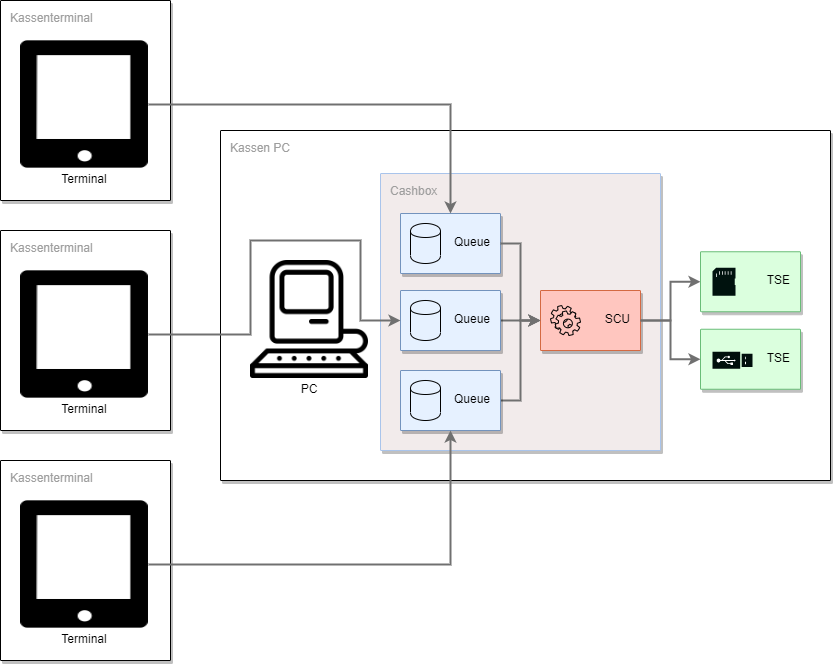
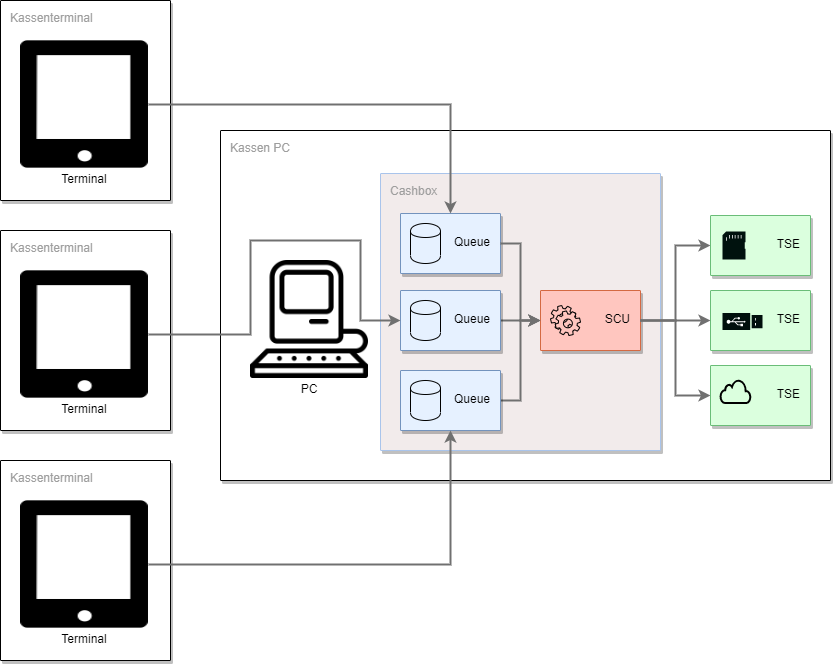
Update scenarios

Changed region(s): [[0.7803, 0.3012, 0.9988, 0.6627]]

diff --git a/for-posdealers/03-sales/rollout-scenarios.md b/for-posdealers/03-sales/rollout-scenarios.md
@@ -2,97 +2,50 @@
 Um die fiskaltrust.Middleware in Verbindung mit Kassen und TSEs zu verwenden kommen unterschiedliche Szenarien in Frage. Bei jedem dieser Szenarien handelt es sich immer um einen Standort. Diese werden weiter unten erläutert, es gibt allerdings einige Grundvoraussetzungen welche auf jeden Fall gegeben sein müssen, unabhängig vom Szenario.
 
 - Pro POS-System (Standort) muss mindestens eine [SCU](https://github.com/fiskaltrust/productdescription-de-doc/blob/master/product-service-description/compliance-as-a-service/features/SCU-Abstraktion.md) inkl. TSE zugeordnet sein. Die TSE kann entweder eine Hardware TSE vor Ort sein, oder eine zertifizierte Cloud TSE.
-- Jede Kasse welche dem Finanzamt gemeldet werden muss, muss eine Queue zugeordnet sein.
+- Jeder Kasse welche dem Finanzamt gemeldet werden muss, muss eine fiskaltrust.Queue zugeordnet sein.
+- Alle Komponenten müssen sich am gleichen Standort befinden, im sogenannten "operational environment" (sichere Einsatzumgebung).
+- Jede Kasse kann nur eine TSE nutzen.
+
+Es ist zudem jederzeit möglich weitere Terminals mit einer Kasse zu verbinden oder zusätzliche TSEs zu verwenden.
 
 #### TSE in der Cloud
-Mit einer Cloud TSE können diverse Komponenten der TSE in einem Rechenzentrum betrieben werden. Ist die TSE nicht mehr erreichbar, wechselt die fiskaltrust.Middleware in den Ausfallsmodus. Bei der Nutzung von Cloud TSEs möchten wir auf die [Fair-Use-Policy]() hinweisen.
+Mit einer Cloud TSE können diverse Komponenten der TSE in einem Rechenzentrum betrieben werden. Ist die TSE nicht mehr erreichbar, wechselt die fiskaltrust.Middleware in den [Ausfallsmodus](). Bei der Nutzung von Cloud TSEs möchten wir auf die [Fair-Use-Policy]() hinweisen.
 
 #### Hardware-TSE
-Wird eine Hardware-TSE genutzt, so muss pro Kasse nur eine angeschlossen werden. Entweder per SD-Karte oder am USB-Anschluss.
+Pro Kasse kann nur eine Hardware-TSE angeschlossen werden. Entweder per SD-Karte oder am USB-Anschluss.
 
-## Entscheidungshilfe
-Dieser Leitfaden stellt eine Entscheidungshilfe dar, welches Szenario für welche Gegebenheiten empfohlen wird. Die Fragen werden nachfolgend genauer beschrieben.
-
-#### TSE-Export pro Kasse?
-Ja bedeutet, dass die Exporte der TSE immer ausschließlich direkt an der Kasse erfolgen. Das Exportieren und auch das Löschen der Daten auf der TSE ist hier technisch am einfachsten. Pro Kasse wird also eine TSE verwendet, das ist die maximale Anzahl.
-
-#### Terminals oder Kassen?
-"Terminals" bedeutet, die Eingabegeräte sind Tablets oder ähnliches, das heißt es ist gar nicht möglich hier eine Hardware-TSE anzuschließen bzw. die fiskaltrust.Middleware am Gerät selbst zu installieren. Bei "Kassen" handelt es sich um Geräte an denen die fiskaltrust.Middleware installiert werden kann.
-
-#### Gibt es eine Hauptkasse?
-Ja bedeutet, dass eine der Kassen als Hauptkasse genutzt wird. Die Hauptkasse muss demnach eingeschalten sein damit die anderen Kassen auf die TSE zugreifen können. Bei Nein wird die fiskaltrust.Middleware welche mit der TSE kommuniziert auf einem lokalem PC (Server) installiert.
-
-#### Hardware vor Ort?
-Nein bedeutet, es nicht möglich Hardware (mit Ausnahme der Eingabeterminals) vor Ort zu betreiben.
-
-#### Terminals meldepflichtig?
-Ja bedeutet, dass die Terminals dem Finanzamt gemeldet werden. Ist das der Fall, benötigt jedes Terminal eine eigene fiskaltrust.Queue. 
-
-#### Internetverbindung vorhanden?
-Ja beduetet, dass eine Internetverbindung vor Ort vorhanden ist.
-
-![scenario-decisions](media/scenario-decisions.png)
-
-#### Links zu den Szenarien
-
-- [Hardware-TSE pro Kasse](#Hardware-TSE-pro-Kasse)
-- [Cloud-TSE mit Hauptkasse](#Cloud-TSE-mit-Hauptkasse)
-- [Hardware-TSE mit Hauptkasse](#Hardware-TSE-mit-Hauptkasse)
-- [Cloud-TSE mit Server](#Cloud-TSE-mit-Server)
-- [Hardware-TSE mit Server](#Hardware-TSE-mit-Server)
-- [Cloud-TSE mit Terminals](#Cloud-TSE-mit-Terminals)
-- [Hardware-TSE mit Terminals](#Hardware-TSE-mit-Terminals)
-- [Cloud-TSE mit Single-Queue](#Cloud-TSE-mit-Single-Queue)
-- [Hardware-TSE mit Single-Queue](#Hardware-TSE-mit-Single-Queue)
-- [Rechenzentrum als operational environment](#Rechenzentrum-als-operational-environment)
-
-## Hardware-TSE pro Kasse
-Das ist das technisch einfachste Szenario, benötigt allerdings auch die maximale Anzahl an TSEs. Technisch ist diese Lösung sehr einfach zu handhaben, da die Exporte der TSE ausschließlich direkt an der Kasse erfolgen.
+## TSE pro Kasse
+Aus technischer Sicht ist es das einfachste Szenario, benötigt allerdings auch die maximale Anzahl an TSEs. Ein Vorteil dieser Lösung ist, dass die anderen Kassen weiterhin funktionsfähig sind sobald die TSE einer Kasse ausfällt. Ein weiterer Vorteil ist, da jede Kasse eine eigene TSE nutzt kann es hier nicht zu Performanceproblemen führen.
 
 ![tse-per-cashregister](media/tse-per-cashregister.png)
 
-## Cloud-TSE mit Hauptkasse
-An der Hauptkassa wird eine fiskaltrust.CashBox betrieben welche eine fiskaltrust.Queue und die SCU enthält und diese kommuniziert mit der Cloud-TSE. Auf den anderen Kassen sind dennoch fiskaltrust.CashBoxen installiert, welche allerdings nur eine fiskaltrust.Queue haben und mit der SCU verbunden sind. Alle Komponenten (mit Ausnahme von Teilen der Cloud-TSE) befinden sich am gleichen Standort, im sogenannten "operational environment" (sichere Einsatzumgebung).
-
-![cloud-tse-on-cashregister](media/cloud-tse-on-cashregister.png)
-
-## Hardware-TSE mit Hauptkasse
-An der Hauptkassa wird eine fiskaltrust.CashBox betrieben welche eine fiskaltrust.Queue und die SCU enthält und diese kommuniziert mit der TSE. Auf den anderen Kassen sind dennoch fiskaltrust.CashBoxen installiert, welche allerdings nur eine fiskaltrust.Queue haben und mit der SCU verbunden sind. Alle Komponenten befinden sich am gleichen Standort, im sogenannten "operational environment" (sichere Einsatzumgebung). Bei diesem Szenario ist darauf zu achten, dass die Exporte aller Kassen zentral auf einer TSE stattfinden und es beim Export und dem Löschen der Daten zu Problemen führen kann.
+## Hauptkasse
+An der Hauptkassa wird eine fiskaltrust.CashBox betrieben welche eine fiskaltrust.Queue und die SCU enthält und diese kommuniziert mit der TSE. Auf den anderen Kassen werden dennoch fiskaltrust.CashBoxen installiert, welche allerdings nur eine fiskaltrust.Queue haben und mit der SCU verbunden sind. Da hier nur eine TSE im Einsatz ist, muss die Hauptkasse immer laufen und die TSE erreichbar sein. Bei einer großen Anzahl an Requests pro Sekunde oder einer großen Anzahl an Kassen empfehlen wir den Einsatz einer oder mehreren zusätzlichen TSEs, hier gibt es mehr Informationen dazu: [Performance](#Performance).
 
 ![tse-on-cashregister](media/tse-on-cashregister.png)
 
-## Cloud-TSE mit Server
-Am Server wird eine fiskaltrust.CashBox betrieben welche die SCU enthält und diese kommuniziert mit der Cloud-TSE. Auf den Kassen sind dennoch fiskaltrust.CashBoxen installiert, welche allerdings nur eine fiskaltrust.Queue haben und mit der SCU verbunden sind. Alle Komponenten (mit Ausnahme von Teilen der Cloud-TSE) befinden sich am gleichen Standort, im sogenannten "operational environment" (sichere Einsatzumgebung).
-
-![cloud-tse-separated](media/cloud-tse-separated.png)
-
-## Hardware-TSE mit Server
-Am Server wird eine fiskaltrust.CashBox betrieben welche die SCU enthält und diese kommuniziert mit der TSE. Auf den anderen Kassen sind dennoch fiskaltrust.CashBoxen installiert, welche allerdings nur eine fiskaltrust.Queue haben und mit der SCU verbunden sind. Alle Komponenten befinden sich am gleichen Standort, im sogenannten "operational environment" (sichere Einsatzumgebung). Bei diesem Szenario ist darauf zu achten, dass die Exporte aller Kassen zentral auf einer TSE stattfinden und es beim Export und dem Löschen der Daten zu Problemen führen kann.
+## TSE am Server
+Am Server wird eine fiskaltrust.CashBox betrieben welche die SCU enthält und diese kommuniziert mit der TSE. Auf den Kassen sind dennoch fiskaltrust.CashBoxen installiert, welche allerdings nur eine fiskaltrust.Queue haben und mit der SCU verbunden sind. Da hier nur eine TSE im Einsatz ist, muss der Server immer laufen und die TSE erreichbar sein. Bei einer großen Anzahl an Requests pro Sekunde oder einer großen Anzahl an Kassen empfehlen wir den Einsatz einer oder mehreren zusätzlichen TSEs, hier gibt es mehr Informationen dazu: [Performance](#Performance).
 
 ![tse-separated](media/tse-separated.png)
 
-## Cloud-TSE mit Terminals
-Werden die Kassen nur als Eingabeterminals verwendet, so ist es nicht notwendig eine fiskaltrust.CashBox an der Kasse zu installieren. Das ist auch möglich wenn es keine Kassen gibt, sondern nur Terminals (zum Beispiel Tablets) welches als Eingabeterminals fungieren. Da die Terminals/Kassen dem Finanzamt gemeldet werden benötigt jede Kasse/jedes Terminal eine fiskaltrust.Queue. 
-
-![terminals-multi-queue-cloud](media/terminals-multi-queue-cloud.png)
-
-## Hardware-TSE mit Terminals
-Werden die Kassen nur als Eingabeterminals verwendet, so ist es nicht notwendig eine fiskaltrust.CashBox an der Kasse zu installieren. Das ist auch möglich wenn es keine Kassen gibt, sondern nur Terminals (zum Beispiel Tablets) welches als Eingabeterminals fungieren. Da die Terminals/Kassen dem Finanzamt gemeldet werden benötigt jede Kasse/jedes Terminal eine fiskaltrust.Queue.
+## Terminals
+"Terminals" bedeutet, die Eingabegeräte sind Tablets oder ähnliches, das heißt es ist gar nicht möglich hier eine Hardware-TSE anzuschließen bzw. die fiskaltrust.Middleware am Gerät selbst zu installieren. In diesem Fall wird keine fiskaltrust.CashBox am Terminal installiert, sondern am Server oder einer Hauptkasse. Jedes Terminal welches dem Finanzamt gemeldet werden muss, benötigt eine eigene fiskaltrust.Queue. Da hier nur eine TSE im Einsatz ist, muss der Server immer laufen und die TSE erreichbar sein. Bei einer großen Anzahl an Requests pro Sekunde oder einer großen Anzahl an Terminals empfehlen wir den Einsatz einer oder mehreren zusätzlichen TSEs, hier gibt es mehr Informationen dazu: [Performance](#Performance).
 
 ![terminals-multi-queue](media/terminals-multi-queue.png)
 
-## Cloud-TSE mit Single-Queue
-Werden die Kassen nur als Eingabeterminals verwendet, so ist es nicht notwendig eine fiskaltrust.CashBox an der Kasse zu installieren. Das ist auch möglich wenn es keine Kassen gibt, sondern nur Terminals (zum Beispiel Tablets) welches als Eingabeterminals fungieren. Da die Terminals/Kassen dem Finanzamt nicht gemeldet werden kann alles in eine fiskaltrust.Queue laufen.
-
-![terminals-single-queue-cloud](media/terminals-single-queue-cloud.png)
-
-## Hardware-TSE mit Single-Queue
-Werden die Kassen nur als Eingabeterminals verwendet, so ist es nicht notwendig eine fiskaltrust.CashBox an der Kasse zu installieren. Das ist auch möglich wenn es keine Kassen gibt, sondern nur Terminals (zum Beispiel Tablets) welches als Eingabeterminals fungieren. Da die Terminals/Kassen dem Finanzamt nicht gemeldet werden kann alles in eine fiskaltrust.Queue laufen.
+## Terminals mit Single-Queue
+"Terminals" bedeutet, die Eingabegeräte sind Tablets oder ähnliches, das heißt es ist gar nicht möglich hier eine Hardware-TSE anzuschließen bzw. die fiskaltrust.Middleware am Gerät selbst zu installieren. In diesem Fall wird keine fiskaltrust.CashBox am Terminal installiert, sondern am Server oder einer Hauptkasse. Wenn die Terminals nicht dem Finanzamt gemeldet werden mmüssenuss, reicht eine fiskaltrust.Queue aus. Da hier nur eine TSE im Einsatz ist, muss der Server immer laufen und die TSE erreichbar sein. Bei einer großen Anzahl an Requests pro Sekunde oder einer großen Anzahl an Terminals empfehlen wir den Einsatz einer oder mehreren zusätzlichen fiskaltrust.Queues und TSEs, hier gibt es mehr Informationen dazu: [Performance](#Performance).
 
 ![terminals-single-queue.png](media/terminals-single-queue.png)
 
 ## Rechenzentrum als operational environment
 Falls die Kasse in einem Rechenzentrum betrieben wird und die Eingabestationen ohne (Internet-)Verbindung zu diesem nicht funktionsfähig sind, kann das Rechenzentrum unter bestimmten Voraussetzungen als "operational environment" angenommen werden. Die fiskaltrust.Middleware kann in diesem Fall vollständig in diesem Rechenzentrum betrieben werden. In diesem Szenario verbinden sich die Terminals (Eingabestationen) zur fiskaltrust.Middleware im Rechenzentrum.
-Im Falle eines Ausfalls der (Internet-)Verbindung ist es allerdings so, dass keine SignatureItems auf die Belege gedruckt werden können. Bei Interesse zur Lösung, bei der fiskaltrust den Betrieb im Rechenzentrum des KassenBetreibers installiert und wartet, gibt er hier mehr Informationen: [info@fiskaltrust.de](mailto:info@fiskaltrust.de?subject=Informationen%20zu%20Bring-your-own-datacenter).
+Im Falle eines Ausfalls der (Internet-)Verbindung ist es allerdings so, dass keine SignatureItems auf die Belege gedruckt werden können. Bei Interesse zur Lösung, bei der fiskaltrust den Betrieb im Rechenzentrum des KassenBetreibers installiert und wartet, gibt es hier mehr Informationen: [info@fiskaltrust.de](mailto:info@fiskaltrust.de?subject=Informationen%20zu%20Bring-your-own-datacenter).
 
 ![cloud-middleware](media/cloud-middleware.png)
+
+#### Performance
+Wir empfehlen ab XY Requests pro Sekunde eine zusätzliche TSE.
+Wir empfehlen ab XY Terminals eine zusätzliche TSE.
+Wir empfehlen pro XY Terminals eine weitere fiskaltrust.Queue.
